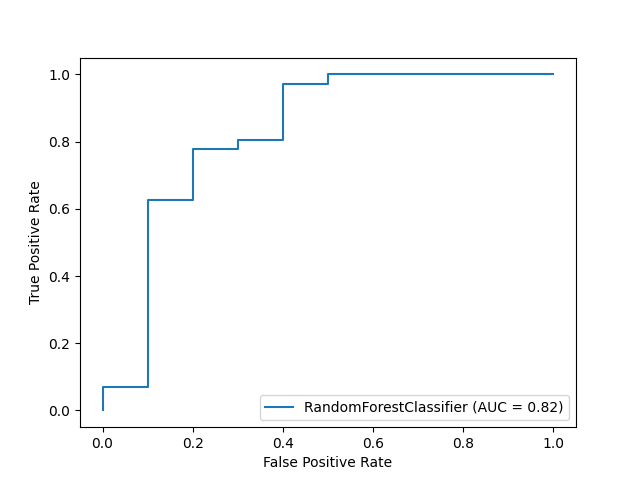
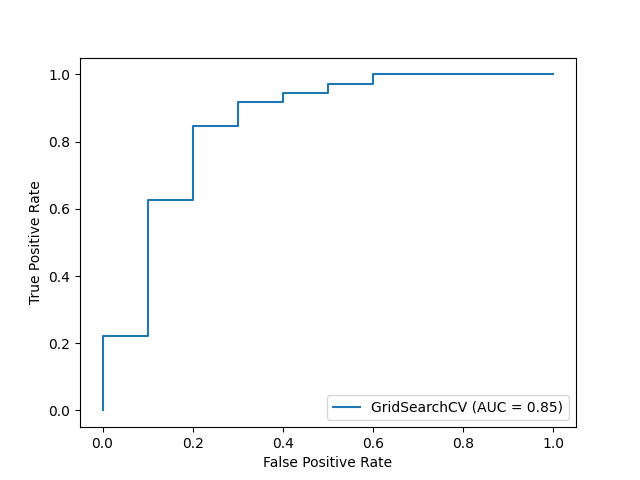
Added hiperparameters tuning

diff --git a/src/parameters_tuning.py b/src/parameters_tuning.py
@@ -1,0 +1,62 @@
+import numpy as np
+
+from sklearn.ensemble import RandomForestClassifier
+from sklearn.model_selection import RandomizedSearchCV
+from sklearn.model_selection import GridSearchCV
+
+
+def random_tuner(X_train, y_train):
+    # Number of trees in random forest
+    n_estimators = [int(x) for x in np.linspace(start=200, stop=2000, num=10)]
+    # Number of features to consider at every split
+    max_features = ['auto', 'sqrt']
+    # Maximum number of levels in tree
+    max_depth = [int(x) for x in np.linspace(10, 110, num=11)]
+    max_depth.append(None)
+    # Minimum number of samples required to split a node
+    min_samples_split = [2, 5, 10]
+    # Minimum number of samples required at each leaf node
+    min_samples_leaf = [1, 2, 4]
+    # Method of selecting samples for training each tree
+    bootstrap = [True, False]
+    # Create the random grid
+    random_grid = {'n_estimators': n_estimators,
+                   'max_features': max_features,
+                   'max_depth': max_depth,
+                   'min_samples_split': min_samples_split,
+                   'min_samples_leaf': min_samples_leaf,
+                   'bootstrap': bootstrap}
+
+    rf = RandomForestClassifier(max_depth=2, random_state=0)
+    rf_random = RandomizedSearchCV(estimator=rf, param_distributions=random_grid,
+                                   n_iter=100, cv=3, verbose=2, random_state=42, n_jobs=-1)
+
+    # Fit the random search model
+    rf_random.fit(X_train, y_train)
+
+    return rf_random.best_params_
+
+
+def search_tuner(X_train, y_train, random_params):
+    # Create a based model
+    rf = RandomForestClassifier()
+    # Instantiate the grid search model
+    grid_search = GridSearchCV(estimator=rf, param_grid=random_params,
+                               cv=3, n_jobs=-1, verbose=2)
+
+    grid_search.fit(X_train, y_train)
+
+    return grid_search
+
+
+def parameters_tuner(X_train, y_train):
+    #random_params = random_tuner(X_train, y_train)
+    random_params = {
+        'bootstrap': [True],
+        'max_depth': [20, 80, 90, 100, 110],
+        'max_features': ['sqrt'],
+        'min_samples_leaf': [1, 2, 3],
+        'min_samples_split': [8, 10, 12],
+        'n_estimators': [1600, 1700, 1800, 1900]
+    }
+    return search_tuner(X_train, y_train, random_params)

diff --git a/src/crforest.py b/src/crforest.py
@@ -7,6 +7,7 @@ from sklearn.metrics import classification_report, confusion_matrix, roc_auc_sco
 
 from smote import smote_sampling
 from plot import plot_auc
+from parameters_tuning import parameters_tuner
 
 
 def crforest_loan(train_dataset, test_dataset, eval_dataset, selected_features):
@@ -31,8 +32,9 @@ def crforest_loan(train_dataset, test_dataset, eval_dataset, selected_features):
     X_train = scaler.transform(X_train)
     X_test = scaler.transform(X_test)
 
-    clf = RandomForestClassifier(max_depth=2, random_state=0)
-    clf.fit(X_train, y_train)
+    #clf = RandomForestClassifier(max_depth=2, random_state=0)
+    #clf.fit(X_train, y_train)
+    clf = parameters_tuner(X_train, y_train)
 
     y_pred = clf.predict(X_test)
     predictions = [round(value) for value in y_pred]
